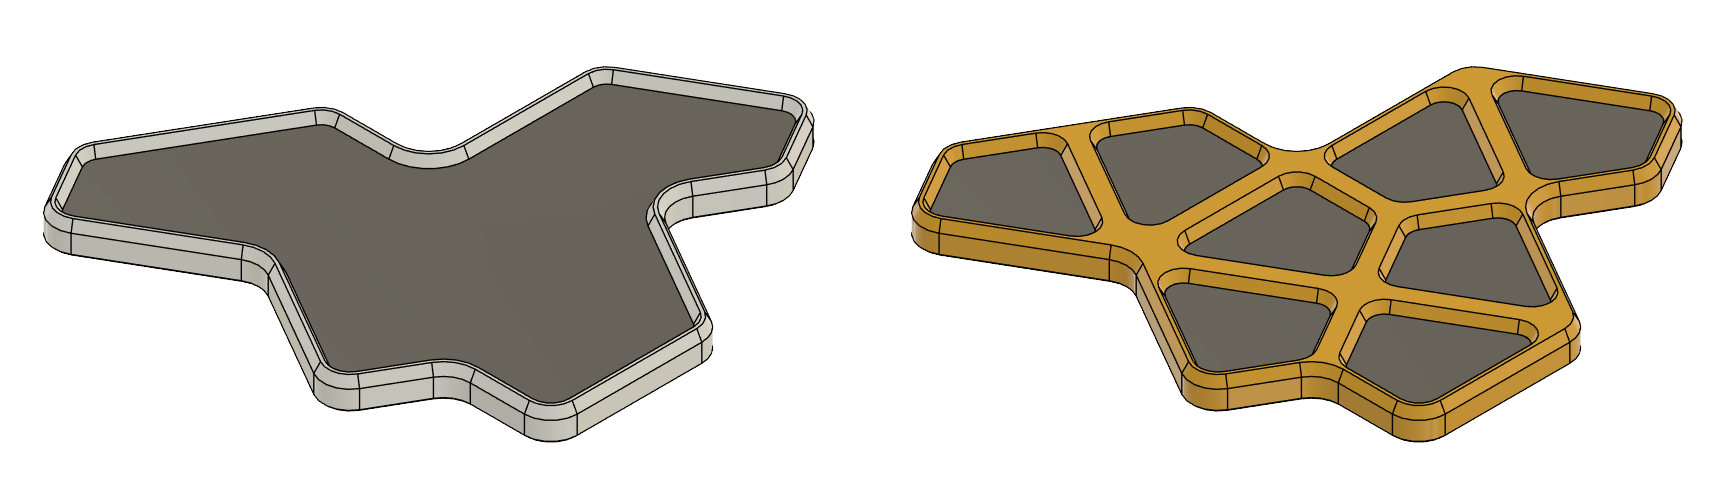
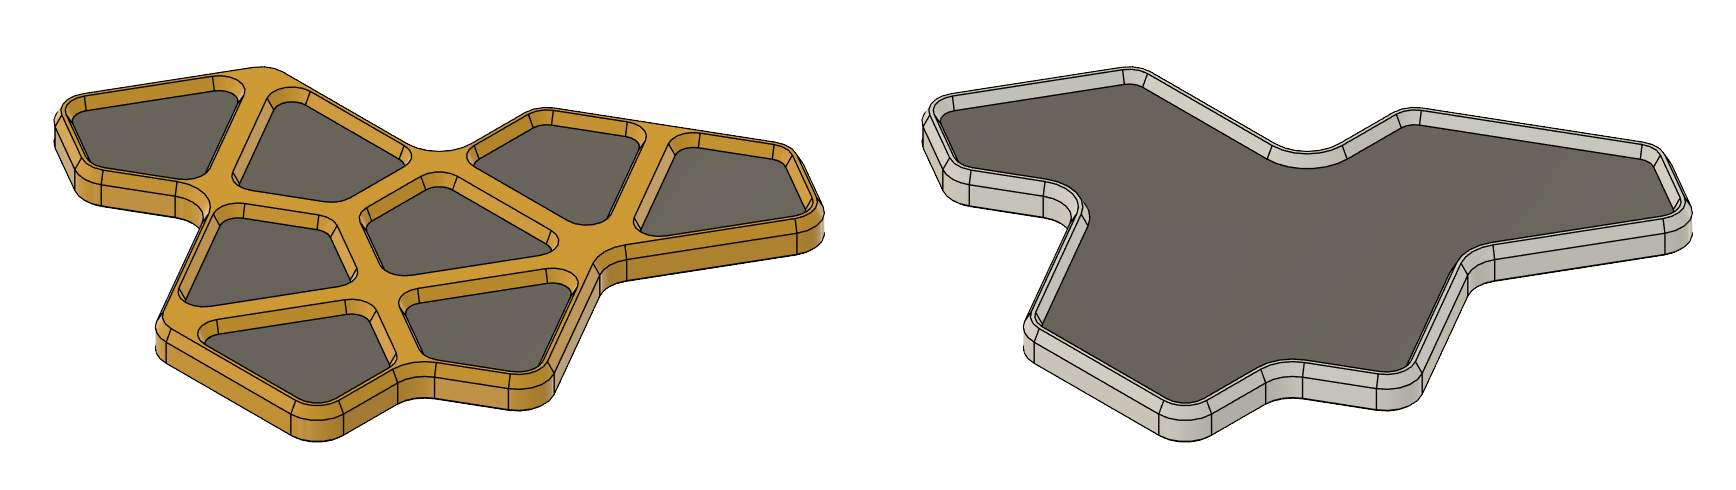
Flip images, update index

diff --git a/index.md b/index.md
@@ -1,40 +1,71 @@
 ---
 title: A 3D-printable tiling of aperiodic monotiles
 ---
-<body>
-
 <h1>Let’s make a group tessellation.</h1>
-<p>Everything you need is here and there are options from accessible easy prints to models for more advanced customisation.</p>
+
+<p>Everything you need is here and there are options from accessible easy prints to STEP files for more advanced customisation.</p>
 
 <h2>What is aperiodic monotile?</h2>
+
 <p>A monotile is a single tile shape that tiles the plane by repeated copies of itself, and an aperiodic tiling is one that has no translational symmetry.</p>
+
 <p>This project uses the hat tile, discovered in 2023 by amateur mathematician David Smith and published into a proof with his collaborators.  Find more information in <i>further reading</i> below.</p>
 
 <p>Here is a tiling using hat tiles:</p>
 <img src="https://github.com/saw2kx/aperiodicmonotile/blob/main/images/hats.png?raw=true" alt="An aperiodic monotile tiling">
 <i>Image from “An Aperiodic Monotile” by David Smith et al. (2023), licensed under CC BY 4.0.</i>
+
 <h2>How can I participate?</h2>
+
+<p>If you are newer to slicing models or just looking for a quick easy print, we have you covered (see <i>easy option</i>, below).  If you would like to play around in the slicer, we are curious to see what effects you will create and if you want to edit the inner hat tile or kite tile (using the STEP files in the repo), we are excited to see what you create.</p>
 
 <p>We have prepared two different tiles: one with an open frame and one with a partitioned frame.  The spaces in the frame can be filled with either smaller tiles or with modifiers (more on that shortly).</p>
 
 <p>Here is the open frame (white) with a inner hat tile (red):</p>
-<img src="https://github.com/saw2kx/aperiodicmonotile/blob/main/images/openFrame.png?raw=true" alt="The open frame and inner tile">
+<img src="https://github.com/saw2kx/aperiodicmonotile/blob/main/images/openFrame.png?raw=true" alt="The open frame and inner tile" width="434" height="245">
+
 <p>Here is the partitioned frame (yellow) with one kite tile (green):</p>
-<img src="https://github.com/saw2kx/aperiodicmonotile/blob/main/images/partitionedFrame.png?raw=true" alt="The partitioned frame and one kite tile">
+<img src="https://github.com/saw2kx/aperiodicmonotile/blob/main/images/partitionedFrame.png?raw=true" alt="The partitioned frame and one kite tile" width="434" height="245">
 
+<p>Here are both frames showing the modifiers.  Whilst the inner hat tile and kite tiles are the same height as the frames and leave clearance for a good fit, the modifiers match the height of the straight part of the frame and have no clearance to the frame:
+<img src="https://github.com/saw2kx/aperiodicmonotile/blob/main/images/modifiers.png?raw=true" alt="Both frames with modifiers" width="868" height="245">
 
+<p>The modifiers can be deleted if you would like to leave a gap to insert a printed inner hat or kite tiles, left as they are to create a solid part, or modified for interesting effects (such as having no top layers to reveal infill)</p>
 
+<h3>About the files</h3>
+There are four files:
+<ul>
+  <li>Open frame and modifiers</li>
+  <li>Partitioned frame and modifiers</li>
+  <li>Inner hat tile</li>
+  <li>Kite tile</li>
+</ul>
 
+<p>There are four sets of the above 3MF files.  The universal files work eveywhere, but there are also files for Orca Slicer, PrusaSlicer and Cura where I have labelled and grouped the objects for you.</p>
+<a href = "https://github.com/saw2kx/aperiodicmonotile/blob/main/3MF/AP_universal.zip">Universal</a> | 
+<a href = "https://github.com/saw2kx/aperiodicmonotile/blob/main/3MF/AP_PrusaSlicer.zip">PrusaSlicer</a> | 
+<a href = "https://github.com/saw2kx/aperiodicmonotile/blob/main/3MF/AP_OrcaSlicer.zip">Orca Slicer</a> | 
+<a href = "https://github.com/saw2kx/aperiodicmonotile/blob/main/3MF/AP_Cura.zip">Cura</a>
 
+<h3>Easy option</h3>
+<p>Use these STL files which exclude the modifiers.  Print the open frame and the inner hat tile or the partitioned frame and eight kite tiles.
+<br>This is also a good fallback option if you can’t use 3MF files or have issues with those provided here.</p>
+<a href = "https://github.com/saw2kx/aperiodicmonotile/blob/main/STL/Open%20frame.stl">Open frame</a> | 
+<a href = "https://github.com/saw2kx/aperiodicmonotile/blob/main/STL/Inner%20hat%20tile.stl">Inner hat tile</a><br><br>
+<a href = "https://github.com/saw2kx/aperiodicmonotile/blob/main/STL/Partitioned%20frame.stl">Partitioned frame</a> | 
+<a href = "https://github.com/saw2kx/aperiodicmonotile/blob/main/STL/Kite%20tile.stl">Kite tile</a>
 
+<h3>Hard option</h3>
+<p>Hit the repo link at the top, grab the STEP files and do some cool custom stuff, just be a good tile neighbour. ;)</p>
 
+<h3>Did you notice that tiling has two types of tile?</h3>
+<p>It still counts as one mathmatically, but the darker blue tiles in the first image are reflected.  The radio of normal to reflected tiles is φ<sup>4</sup> : 1 (≈ 6.854 : 1).  We have already made a good number of reflected tiles, so participants only need to print them as presented in the files.  If you get carried away and make a lot though, you could reflect (mirror) every seventh one and that’ll have us about right.  It doesn’t need to be exact because there is enough varience available to us in our non-infinite tiling.</p>
 
-
-
-
-
-
-<h2>Attribution</h2>
+<h3>Measurements</h3>
+<p>In testing on different printers with PLA and PETG, our caliper measurements were within 0.1mm of the dimensions indicated below.  Obviosuly this is somewhat unimportant for an aestetic group project of this nature, but I provide it for calibration for the particular amongst us, or for peace of mind when using materials prone to difficulties with dimensional accuracy.</p><br>
+<img src="https://github.com/saw2kx/aperiodicmonotile/blob/main/images/measurements.png?raw=true" alt="Frame measurements" width=500>
+<br><br><br>
+<h4>Attribution</h4>
 
 This project is inspired by and based on the work:
 
@@ -42,4 +73,3 @@ This project is inspired by and based on the work:
 The original paper is licensed under <a href="https://creativecommons.org/licenses/by/4.0/">Creative Commons Attribution 4.0 International (CC BY 4.0)</a>.  Proper attribution is provided here in accordance with the licence.  
 <br>
 This repository, including any original designs or contributions made by the author of this project, is licensed under <a href="https://github.com/saw2kx/aperiodicmonotile/blob/main/LICENSE">CC BY-NC-SA 4.0</a>.
-</body>
